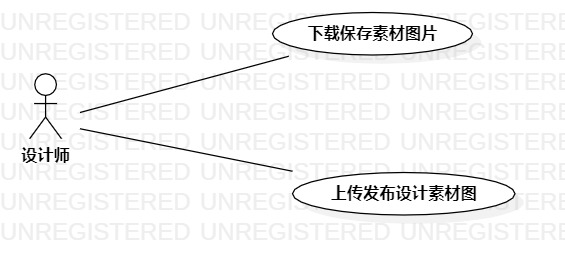
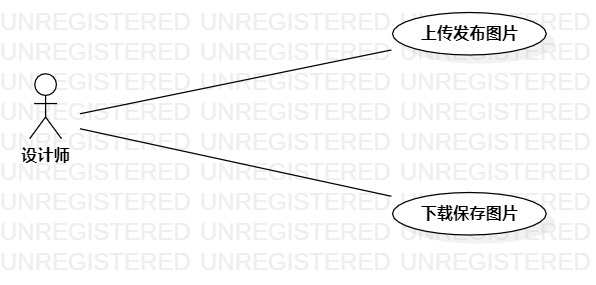
#2 #536 实验二用例建模全部任务

diff --git a/students/1714080902328/lab2.md b/students/1714080902328/lab2.md
@@ -28,10 +28,26 @@
 -|:-|-  
 用例名称  | 上传发布图片  |   
 前置条件  |      | *可选*   
-后置条件  |      | *可选*   
+后置条件  |  设计师进入主页    | *可选*   
 基本流程  | 1. 设计师点击上传按钮；  |*用例执行成功的步骤*    
 ~| 2. 系统显示添加上传页面；  |   
-~| 3. 设计师添加图片，点击上传按钮；  |   
-~| 4. 系统检查图片信息，判断大小是否符合规定；  |   
-~| 5. 系统返回首页。  |  
-扩展流程  | 4.1 系统检查发现不合规定；  |*用例执行失败*    
+~| 3. 设计师点击“+”按钮；  |   
+~| 4. 弹出相册，选择图片，返回上传页面；  |   
+~| 5. 点击上传按钮；  |  
+~| 6. 系统检查图片大小是否符合规定；  |  
+~| 7. 上传成功，返回主页；  |  
+扩展流程  | 6.1 系统检查发现不合规定；  |*用例执行失败*    
+
+## 表2：下载保存图片用例规约  
+
+用例编号  | EX02 | 备注  
+-|:-|-  
+用例名称  | 下载保存图片  |   
+前置条件  |      | *可选*   
+后置条件  |  设计师进入主页    | *可选*   
+基本流程  | 1. 设计师点击图片链接；  |*用例执行成功的步骤*    
+~| 2. 系统显示图片页面；  |   
+~| 3. 设计师点击下载按钮；  |   
+~| 4. 系统判断目标地址是否符合存储要求；  |   
+~| 5. 下载成功，返回主页面；  |  
+扩展流程  | 4.1 系统检查发现不符合存储要求；  |*用例执行失败*    
